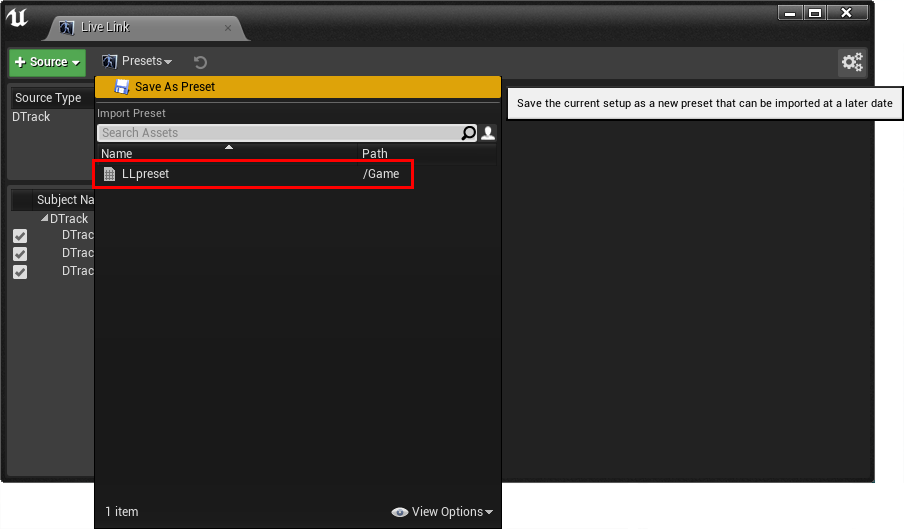
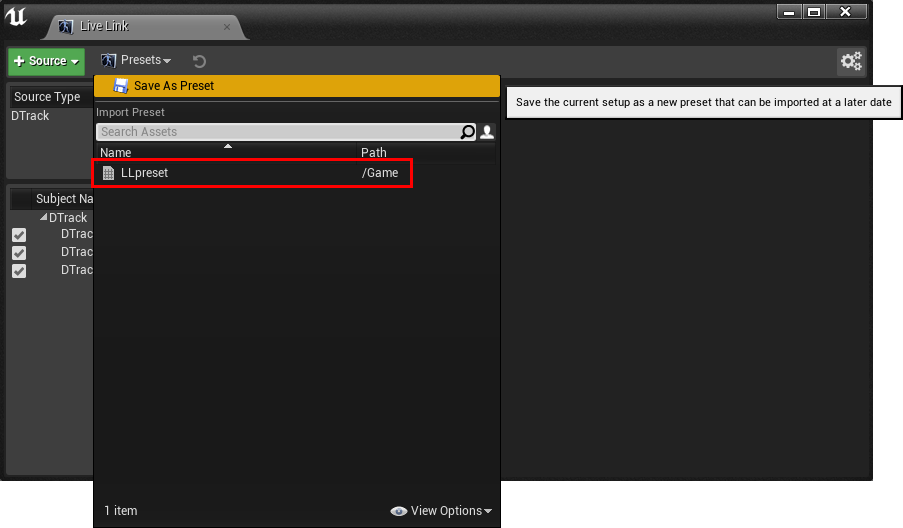
Updated for DTrackPlugin v0.9.4

diff --git a/Source/DTrackTestEditor.Target.cs b/Source/DTrackTestEditor.Target.cs
@@ -10,8 +10,11 @@ public class DTrackTestEditorTarget : TargetRules
 		Type = TargetType.Editor;
 		
 		ExtraModuleNames.AddRange( new string[] { "DTrackTest" } );
-
-#if UE_5_4_OR_LATER
+		
+#if UE_5_7_OR_LATER
+		DefaultBuildSettings = BuildSettingsVersion.V6;
+		IncludeOrderVersion = EngineIncludeOrderVersion.Unreal5_7;
+#elif UE_5_4_OR_LATER
 		DefaultBuildSettings = BuildSettingsVersion.V5;
 #elif UE_5_0_OR_LATER
 		DefaultBuildSettings = BuildSettingsVersion.V4;

diff --git a/Source/DTrackTest.Target.cs b/Source/DTrackTest.Target.cs
@@ -11,7 +11,10 @@ public class DTrackTestTarget : TargetRules
 
 		ExtraModuleNames.AddRange( new string[] { "DTrackTest" } );
 				
-#if UE_5_4_OR_LATER
+#if UE_5_7_OR_LATER
+		DefaultBuildSettings = BuildSettingsVersion.V6;
+		IncludeOrderVersion = EngineIncludeOrderVersion.Unreal5_7;
+#elif UE_5_4_OR_LATER
 		DefaultBuildSettings = BuildSettingsVersion.V5;
 #elif UE_5_0_OR_LATER
 		DefaultBuildSettings = BuildSettingsVersion.V4;

diff --git a/Readme.md b/Readme.md
@@ -137,8 +137,6 @@ Next you apply this preset in the _Level Blueprint_: Create a variable of type _
 
 ![Live Link preset in Level Blueprint](Doc/images/ll-preset-level-blueprint.png)
 
-___Note___: Currently the Flystick (buttons and joystick) to work correctly with packaged builds requires to first start the game, and then the DTrack measurement. Make sure that DTrack measurements are stopped before starting the game.
-
 ___Note___: If the project cannot be opened via the Launcher, but only via the Editors file menu, you presumably have to adjust the _.uproject_ file to the version of your _Unreal Editor_. Follow the corresponding installation step in _[UnrealDTrackPlugin][1]_.
 
 [1]: https://github.com/ar-tracking/UnrealDTrackPlugin#Preparation
